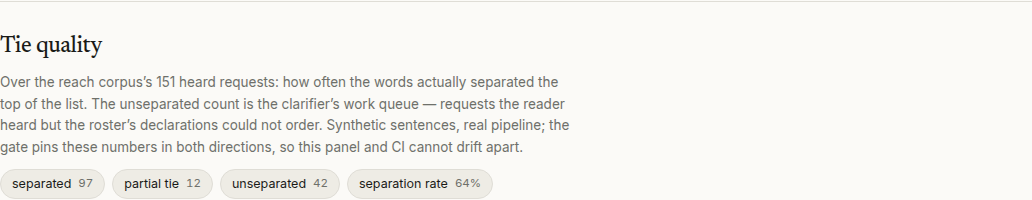
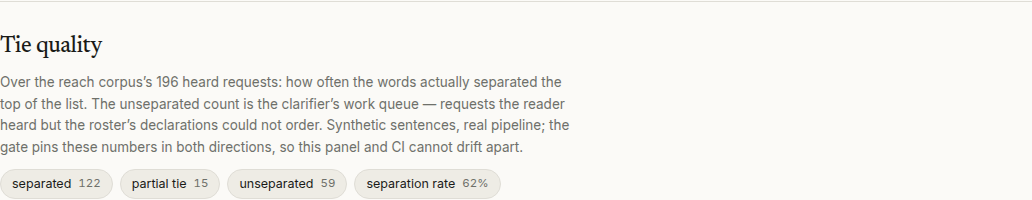
O64: corpus tranche three - the thin floors fed first, and one gap named loudly.
Year plan Q1 item 1 advanced: 66 new first-person requests take the standing
reach corpus from 195 to 261 entries of the ~500 target, authored against the
floors as they stood and tagged from measurement, never hope - reaches is what
the reader actually heard, aspires is the intended reach it could not hear,
and three new state-description sentences join the G7 never register (flat
for months / the worry never stops / brain jumps channels), because a symptom
with no want stated must stay unheard by design. Growth only: no cue was
edited, so the reader itself did not move. Every floor except one rose with
the tranche (woman-gp 3 to 4, trauma-informed 4 to 6, bulk-billing and
telehealth-first 4 to 6, collaborative 5 to 8, motivating 4 to 8) - and
pref:longer-appointment is still 1 after four phrasings aimed straight at it
(long appointment, long consult, double session, more than fifteen minutes),
all landing as aspirations: the loudest cue-gap the corpus now names, flagged
in the REACH_FLOORS comment for the O22 review rather than patched by a
reflex cue in a growth-only unit. The W234 tie-quality pin moved in this same
commit as its gate demands, 151 to 196 measured requests at 122/15/59; the
rate dips 64% to 62% because the tranche deliberately fed the asks a
three-GP roster cannot separate on - the metric working, not the ranking
worsening, said where the pin moved. Full pnpm verify green (210 files, 3085
[…]

diff --git a/src/matching/corpus.ts b/src/matching/corpus.ts
@@ -324,6 +324,111 @@ export const REACH_CORPUS: readonly CorpusEntry[] = [
   { text: "next door to the pharmacy there is a clinic", never: ["manner:unhurried", "manner:culturally_attuned"] },
   { text: "the sign on the practice door says closed", never: ["manner:sense_making"] },
   { text: "she was quick to judge and rushed me out the door", reaches: ["manner:non_judgmental", "manner:unhurried"] },
+
+  // ═══ TRANCHE THREE (O64, 2026-08-19): the thin floors fed first. ═══════════════════════
+  // Authored against the floors as they stood (longer-appointment at ONE, woman-gp 3,
+  // trauma-informed/motivating/bulk-billing/telehealth-first 4), then MEASURED and tagged
+  // from measurement: `reaches` is what the reader actually heard, `aspires` is the intended
+  // reach it could not hear — the lexicon's to-do list, grown deliberately. Growth only: no
+  // cue was edited in this tranche, so every tag below is the reader as it already was.
+
+  // ── pref:longer-appointment — one reaching phrasing existed; these are the misses ───────
+  { text: "please book me a long appointment for the first visit", aspires: ["pref:longer-appointment"] },
+  { text: "a proper long consult, not a squeeze-in", aspires: ["pref:longer-appointment"] },
+  { text: "can we make the first one a double session", aspires: ["pref:longer-appointment"] },
+  // Heard as unhurried manner but not as the booking preference — both truths recorded.
+  { text: "I need more than fifteen minutes to get through this", reaches: ["manner:unhurried"], aspires: ["pref:longer-appointment"] },
+  { text: "an extended appointment so nothing gets cut off", reaches: ["manner:unhurried"], aspires: ["pref:longer-appointment"] },
+
+  // ── pref:woman-gp ────────────────────────────────────────────────────────────────────────
+  { text: "a female GP is important to me", reaches: ["pref:woman-gp"] },
+  { text: "I would feel safer with a woman", aspires: ["pref:woman-gp"] },
+  { text: "women doctors only please, after what happened", aspires: ["pref:woman-gp"] },
+
+  // ── pref:telehealth-first / pref:bulk-billing ────────────────────────────────────────────
+  { text: "I cannot get into a clinic, everything has to be online", reaches: ["pref:telehealth-first"] },
+  { text: "a video call for the first appointment please", reaches: ["pref:telehealth-first"] },
+  { text: "phone appointments suit my shift work better", aspires: ["pref:telehealth-first"] },
+  { text: "it has to be bulk billed, I am on a pension", reaches: ["pref:bulk-billing"] },
+  { text: "money is tight so bulk billing matters", reaches: ["pref:bulk-billing"] },
+  { text: "no out of pocket costs please", aspires: ["pref:bulk-billing"] },
+
+  // ── care:trauma-informed ─────────────────────────────────────────────────────────────────
+  { text: "I need someone trauma informed, my last doctor was not", reaches: ["care:trauma-informed"] },
+  { text: "complex PTSD alongside the attention stuff", reaches: ["care:trauma-informed", "care:complex-mental-health", "care:adhd-assessment"] },
+  { text: "there is family violence in my past and it affects appointments", aspires: ["care:trauma-informed"] },
+  { text: "an abusive relationship left me jumpy in clinics", aspires: ["care:trauma-informed"] },
+
+  // ── manner:motivating ────────────────────────────────────────────────────────────────────
+  { text: "I want to work with my strengths, not just hear what is broken", reaches: ["manner:motivating"] },
+  { text: "someone encouraging rather than critical", reaches: ["manner:motivating"] },
+  { text: "a doctor who is hopeful about what I can do", reaches: ["manner:motivating"] },
+  { text: "neurodiversity affirming care or nothing", reaches: ["manner:motivating"] },
+
+  // ── care:substance-history ───────────────────────────────────────────────────────────────
+  { text: "I used to drink heavily and I am upfront about it", reaches: ["care:substance-history"] },
+  { text: "there is a substance history they will see in my file", reaches: ["care:substance-history"] },
+  { text: "I am in recovery and need that respected", aspires: ["care:substance-history"] },
+  { text: "methamphetamine years ago, clean since", aspires: ["care:substance-history"] },
+
+  // ── care:complex-mental-health ───────────────────────────────────────────────────────────
+  { text: "bipolar and maybe ADHD, it is complicated", reaches: ["care:complex-mental-health", "care:adhd-assessment"] },
+  { text: "schizophrenia is managed, the focus trouble is not", reaches: ["care:complex-mental-health"] },
+  // BPD by name is silent to the reader today — a gap worth closing carefully, not by reflex.
+  { text: "borderline personality disorder plus the attention problems", reaches: ["care:adhd-assessment"], aspires: ["care:complex-mental-health"] },
+  { text: "I hear voices sometimes and I still want this looked at", aspires: ["care:complex-mental-health"] },
+
+  // ── care:non-medication / manner:collaborative ───────────────────────────────────────────
+  { text: "coaching and skills, not another prescription", reaches: ["care:non-medication"] },
+  { text: "what can we do without medication", reaches: ["care:non-medication"] },
+  { text: "I want strategies first, tablets later if ever", aspires: ["care:non-medication"] },
+  { text: "psychological approaches before anything else", aspires: ["care:non-medication"] },
+  { text: "treatment choices talked through with me, never over my head", reaches: ["manner:collaborative"] },
+  { text: "I want a say in my own treatment plan", reaches: ["manner:collaborative"] },
+  { text: "someone who works alongside me as a partner", aspires: ["manner:collaborative"] },
+
+  // ── care:depression / manner:sense_making ────────────────────────────────────────────────
+  { text: "the low moods are back and worse than the distraction", reaches: ["care:depression"] },
+  { text: "depression on top of everything else", reaches: ["care:depression"] },
+  { text: "help me join the dots on why my life looks like this", reaches: ["manner:sense_making"] },
+  { text: "I want it to finally make sense", reaches: ["manner:sense_making"] },
+  { text: "someone who can explain what is actually going on with me", reaches: ["manner:sense_making", "manner:collaborative"] },
+
+  // ── care:emotional-regulation / manner:steadying ─────────────────────────────────────────
+  { text: "big feelings I cannot switch off", reaches: ["care:emotional-regulation"] },
+  { text: "I get overwhelmed in appointments and need someone calm", reaches: ["care:emotional-regulation", "manner:steadying"] },
+  { text: "a gentle doctor, I am easily rattled", reaches: ["manner:steadying"] },
+  // This facet's territory IS the description (see care-archetypes.ts), so unheard
+  // descriptions are candidate cues here — aspires, not never, unlike depression below.
+  { text: "rejection hits me like a truck", aspires: ["care:emotional-regulation"] },
+  { text: "my temper goes from zero to a hundred in seconds", aspires: ["care:emotional-regulation"] },
+
+  // ── care:shared-care / care:anxiety / care:autism-adhd / care:child-adolescent-adhd ─────
+  { text: "my psychiatrist wants a GP to share the care with", reaches: ["care:shared-care"] },
+  { text: "shared care with the psychiatrist who diagnosed me", reaches: ["care:shared-care", "care:adhd-assessment"] },
+  { text: "panic attacks in supermarkets, it is getting worse", reaches: ["care:anxiety"] },
+  { text: "I am autistic as well, the two tangle together", reaches: ["care:autism-adhd"] },
+  { text: "AuDHD, both sides need understanding", reaches: ["care:autism-adhd"] },
+  { text: "my teenager is falling apart at school", reaches: ["care:child-adolescent-adhd"] },
+  { text: "our ten year old needs an assessment", reaches: ["care:adhd-assessment"], aspires: ["care:child-adolescent-adhd"] },
+
+  // ── manner breadth: culturally_attuned, attuned, non_judgmental, unhurried, structured ──
+  { text: "someone who understands where my family comes from", reaches: ["manner:culturally_attuned"] },
+  { text: "a doctor who gets cultural context, mine is complicated", reaches: ["manner:culturally_attuned"] },
+  { text: "I want to be believed the first time I say it", aspires: ["manner:attuned"] },
+  { text: "somewhere I will not be judged for how long I left this", reaches: ["manner:non_judgmental"] },
+  { text: "no lectures, I know the history looks bad", reaches: ["manner:non_judgmental"] },
+  { text: "I do not want to be rushed out the door again", reaches: ["manner:unhurried"] },
+  { text: "a methodical workup done properly", reaches: ["manner:structured"] },
+
+  // ── anchors: titration and assessment phrasings not yet in the set ──────────────────────
+  { text: "the dose needs adjusting, it stopped holding in the afternoons", reaches: ["care:titration"] },
+  { text: "I think it has been ADHD all along, test me properly", reaches: ["care:adhd-assessment", "manner:structured"] },
+
+  // ── G7: state descriptions with no want, pinned as intentional non-reaches ──────────────
+  { text: "flat for months, everything is heavy", never: ["care:depression"] },
+  { text: "the worry never stops, even when things are fine", never: ["care:anxiety"] },
+  { text: "my brain jumps channels mid-sentence", never: ["care:adhd-assessment"] },
 ];
 
 /** Per-facet reach over the corpus: entries that name the facet in `reaches` or `aspires`. */
@@ -353,33 +458,37 @@ export function corpusReachByFacet(
  * percentage so a one-entry facet cannot pass on rounding.
  */
 export const REACH_FLOORS: Readonly<Record<string, number>> = {
-  // Measured 2026-08-19 (O47); raised by O49 (first sweep), O50 (inflection table) and O53
-  // (tranche two: ~200 entries, floors re-measured off the grown set). The open aspirations
-  // are the standing lexicon to-do list; the three attuned hesitations from O49 remain the
-  // founder's call.
-  "care:adhd-assessment": 16,
-  "care:anxiety": 8,
-  "care:autism-adhd": 7,
-  "care:child-adolescent-adhd": 8,
-  "care:complex-mental-health": 5,
-  "care:depression": 6,
-  "care:emotional-regulation": 6,
-  "care:non-medication": 5,
-  "care:shared-care": 7,
-  "care:substance-history": 5,
-  "care:titration": 10,
-  "care:trauma-informed": 4,
+  // Measured 2026-08-19 (O47); raised by O49 (first sweep), O50 (inflection table), O53
+  // (tranche two: ~200 entries) and O64 (tranche three: thin facets fed first, 262 entries,
+  // floors re-measured off the grown set). The open aspirations are the standing lexicon
+  // to-do list; the three attuned hesitations from O49 remain the founder's call.
+  // pref:longer-appointment is STILL 1 after a tranche aimed straight at it — four new
+  // phrasings ("long appointment", "long consult", "double session", "more than fifteen
+  // minutes") all land as aspirations, which is the loudest cue-gap this file currently
+  // names for the O22 review.
+  "care:adhd-assessment": 22,
+  "care:anxiety": 9,
+  "care:autism-adhd": 9,
+  "care:child-adolescent-adhd": 9,
+  "care:complex-mental-health": 8,
+  "care:depression": 8,
+  "care:emotional-regulation": 8,
+  "care:non-medication": 7,
+  "care:shared-care": 9,
+  "care:substance-history": 7,
+  "care:titration": 11,
+  "care:trauma-informed": 6,
   "manner:attuned": 8,
-  "manner:collaborative": 5,
-  "manner:culturally_attuned": 7,
-  "manner:motivating": 4,
-  "manner:non_judgmental": 8,
-  "manner:sense_making": 6,
-  "manner:steadying": 7,
-  "manner:structured": 7,
-  "manner:unhurried": 8,
-  "pref:bulk-billing": 4,
+  "manner:collaborative": 8,
+  "manner:culturally_attuned": 9,
+  "manner:motivating": 8,
+  "manner:non_judgmental": 10,
+  "manner:sense_making": 9,
+  "manner:steadying": 9,
+  "manner:structured": 9,
+  "manner:unhurried": 11,
+  "pref:bulk-billing": 6,
   "pref:longer-appointment": 1,
-  "pref:telehealth-first": 4,
-  "pref:woman-gp": 3,
+  "pref:telehealth-first": 6,
+  "pref:woman-gp": 4,
 };

diff --git a/src/matching/tie-quality.test.ts b/src/matching/tie-quality.test.ts
@@ -11,8 +11,12 @@ import { describe, expect, it } from "vitest";
 import { clinicians } from "@/demo/clinicians";
 import { corpusRun, tieOutcome, tieQualityReport } from "./tie-quality";
 
-/** Move these ONLY with a measured run in the commit that moves them. */
-const PINNED = { total: 151, separated: 97, partialTie: 12, unseparated: 42 };
+/** Move these ONLY with a measured run in the commit that moves them.
+ *  Moved by O64 (corpus tranche three grew the run 151→196): the new sentences split 25
+ *  separated / 3 partial / 17 unseparated, landing the rate at 62% — the corpus deliberately
+ *  fed the THIN facets, which are exactly the asks a three-GP roster often cannot separate
+ *  on, so the KPI dipping from 64% is the metric working, not the ranking worsening. */
+const PINNED = { total: 196, separated: 122, partialTie: 15, unseparated: 59 };
 
 describe("W234 the tie-quality KPI over the corpus run", () => {
   const report = tieQualityReport();

diff --git a/BUILD-STATE.md b/BUILD-STATE.md
@@ -119,8 +119,11 @@ Session logs still go to Stefan-Brain `wiki/_log/` (non-fatal if unavailable).
 > directions in reach.test.ts §O40, every prior reach pin green with no ratchet movement, full
 > `pnpm verify` green (205 files, 2804 tests). Year plan Q1 item 4 marked done.
 
-> **O64 (Q1 item 1 — corpus tranche three: the thin facets fed first) — claimed
-> 2026-08-19T20:04Z by loop-0819t.** The standing corpus is ~200 entries against the plan's
+> **O64 (Q1 item 1 — corpus tranche three: the thin facets fed first) — DONE 2026-08-19 by
+> loop-0819t (corpus now 261 of ~500; every floor except longer-appointment rose; that one's
+> four aimed phrasings ALL landed as aspirations — the loudest cue-gap on record, flagged in
+> REACH_FLOORS' comment for the O22 review; tie-quality repinned 196/122/15/59 with the dip
+> from 64%→62% explained where the pin moved).** The standing corpus is ~200 entries against the plan's
 > ~500; this tranche authors ~60 first-person requests aimed at the thinnest floors
 > (longer-appointment sits at ONE; woman-gp 3; trauma-informed, motivating, bulk-billing,
 > telehealth-first 4; substance-history, complex-mental-health, non-medication,

diff --git a/docs/MATCHING-YEAR-PLAN.md b/docs/MATCHING-YEAR-PLAN.md
@@ -15,7 +15,12 @@ non-rankings.
 
 ## Q1 (Sep–Nov 2026): reach and evidence — make the reader hear more, provably
 
-1. **Reach corpus at scale.** Extend O13's plain-name sweep into a standing corpus of ~500
+1. **Reach corpus at scale.** *Progress: 261 entries after O64's tranche three (2026-08-19),
+   which fed the thinnest floors first — every floor except longer-appointment rose; that one
+   is still 1 after four phrasings aimed straight at it, all landing as aspirations, which is
+   the loudest cue-gap the corpus currently names (flagged for the O22 review). Target ~500
+   stands; tie-quality re-measured over the grown run and repinned in the same commit.*
+   Extend O13's plain-name sweep into a standing corpus of ~500
    real-shaped requests (synthetic, founder-authored + paraphrase variants). Gate: reach
    percentage per facet tracked in CI; any drop fails the build. This is the matching
    equivalent of a golden-file suite. It must test FALSE positives as hard as misses: first
